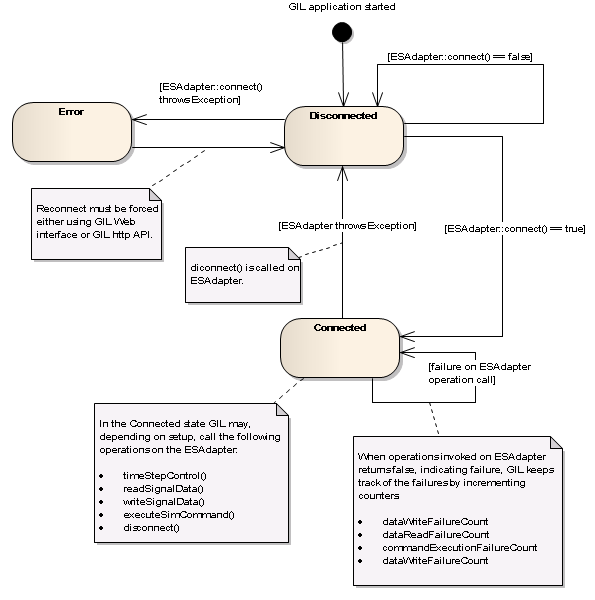
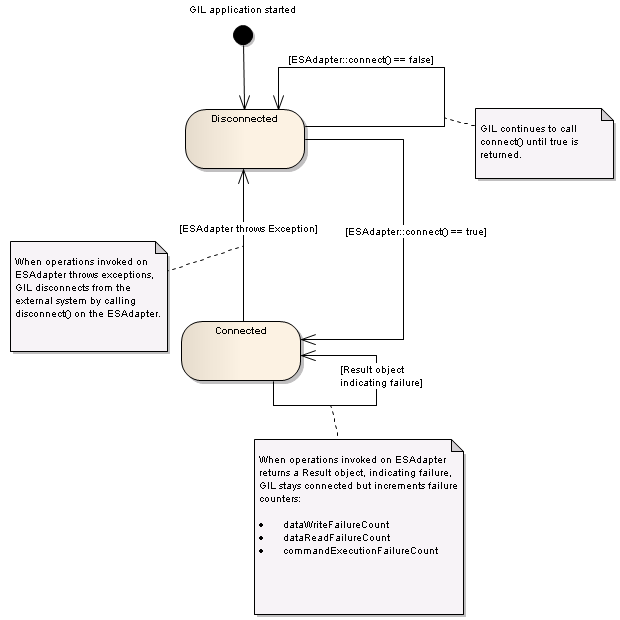
Revised adapter development documentation due to changed behaviour when ES-adapter throws exception in disconnected state.

diff --git a/GIL/files/doc/dev_adapter.html b/GIL/files/doc/dev_adapter.html
@@ -69,10 +69,9 @@
   <p>GIL will call <a href="javadoc/gil/io/IControlCommandInvokeable.html#invokeControlCommand(gil.core.Command)">invokeControlCommand()</a> to
   execute control commands.</p>
   <h3>Error handling</h3>
-  <p>Methods on adapters may in many cases signal failures either by returning a <a href="javadoc/gil/common/Result.html">Result</a> object indicating failure
-      or throwing an exception.</p>
-  <p>Reported failures will have different consequences depending on the current state. E.g. When connected, an exception will result in a disconnect. When disconnected, an exception will force GIL
-     to an error state.</p>
+  <p>Methods on adapters may in many cases signal failures by either returning a <a href="javadoc/gil/common/Result.html">Result</a> object indicating failure
+      or throwing an exception. The severity of throwing an exception is higher than returning a failure <a href="javadoc/gil/common/Result.html">Result</a> object,
+      causing GIL to reconnect to the external system.</p>
   <img src="images/esCommStates.png" alt="" />
 
   <h3>Close down and Restart</h3>
